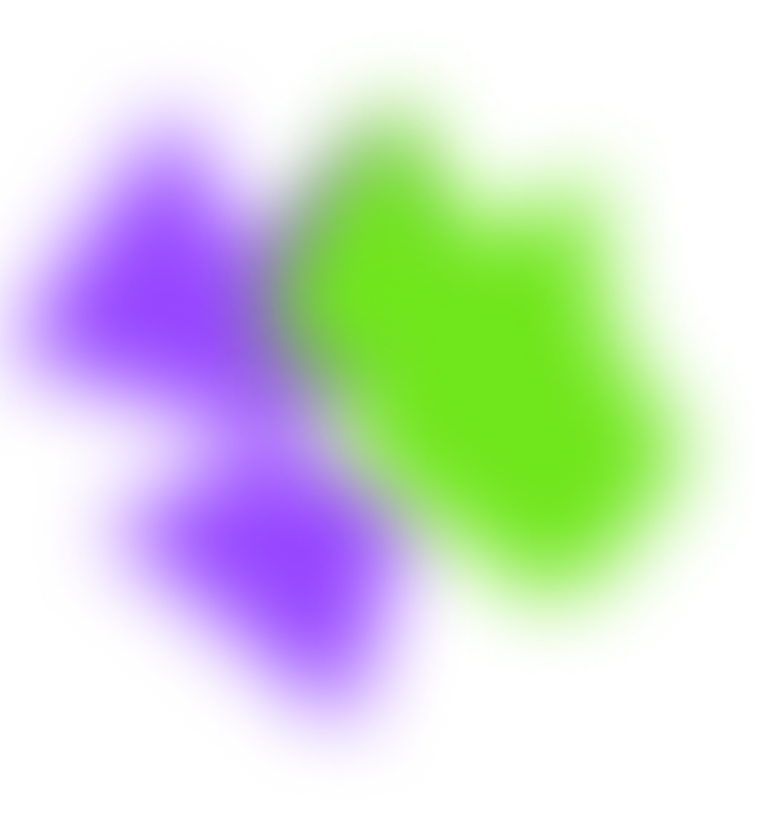
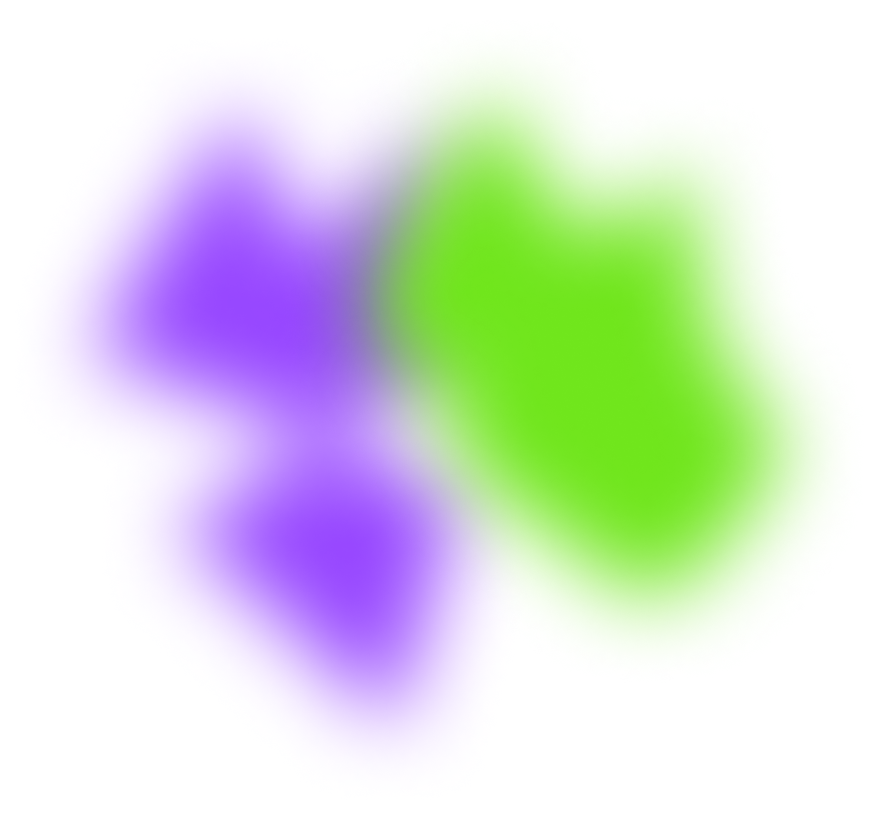
Added 1700px media query

Changed region(s): [[0.0, 0.0915, 0.7132, 0.8232], [0.7132, 0.2439, 0.8992, 0.7012]]

diff --git a/src/app/app.component.html b/src/app/app.component.html
@@ -1,15 +1,18 @@
-<div class="start-page">
-    <app-header [dataFromApp]="boolToHeader" (dataEvent)="receiveDataFromHeader($event)"></app-header>
-    <app-front-page></app-front-page>
-    <app-links></app-links>
-    <div class="scroll-down-container"><span>Scroll down</span><img src="./assets/img/arrow-down.png" alt=""></div>
+<div class="margin-l-r-400">
+    <div class="start-page">
+        <app-header [dataFromApp]="boolToHeader" (dataEvent)="receiveDataFromHeader($event)"></app-header>
+        <app-front-page></app-front-page>
+        <app-links></app-links>
+        <div class="scroll-down-container"><span>Scroll down</span><img src="./assets/img/arrow-down.png" alt=""></div>
+    </div>
+    <div>
+        <app-about-me></app-about-me>
+        <app-my-skills></app-my-skills>
+        <app-portfolio></app-portfolio>
+        <app-project></app-project>
+        <app-contact></app-contact>
+        <app-footer></app-footer>
+    </div>
+    <app-mobile-menu (menuClosed)="receiveDataFromMobileMenu($event)" [class.hide]="!showMenu"
+        class="mobile-menu"></app-mobile-menu>
 </div>
-<div>
-    <app-about-me></app-about-me>
-    <app-my-skills></app-my-skills>
-    <app-portfolio></app-portfolio>
-    <app-project></app-project>
-    <app-contact></app-contact>
-    <app-footer></app-footer>
-</div>
-<app-mobile-menu (menuClosed)="receiveDataFromMobileMenu($event)" [class.hide]="!showMenu" class="mobile-menu"></app-mobile-menu>

diff --git a/src/app/project/project.component.html b/src/app/project/project.component.html
@@ -10,8 +10,8 @@
                 users and categories</div>
             <div></div>
             <div class="button-container">
-                <button class="live-test" mat-raised-button>Live test</button>
-                <button class="github" mat-stroked-button>Github</button>
+                <a href="https://alexander-gerzen.developerakademie.net/Join/login.html" target="_blank"><button class="live-test" mat-raised-button>Live test</button></a>
+                <a href="https://github.com/AlexGerzen/Join" target="_blank"><button class="github" mat-stroked-button>Github</button></a>
             </div>
         </div>
     </div>
@@ -25,8 +25,8 @@
                 coins and salsa bottles to defeat the giant chicken</div>
             <div></div>
             <div class="button-container text-end">
-                <button class="live-test" mat-raised-button>Live test</button>
-                <button class="github" mat-stroked-button>Github</button>
+                <a href="https://alexander-gerzen.developerakademie.net/ElPolloLoco/index.html" target="_blank"><button class="live-test" mat-raised-button>Live test</button></a>
+                <a href="https://github.com/AlexGerzen/ElPolloLoco" target="_blank"><button class="github" mat-stroked-button>Github</button></a>
             </div>
         </div>
     </div>

diff --git a/src/app/front-page/front-page.component.scss b/src/app/front-page/front-page.component.scss
@@ -31,7 +31,7 @@
 .shadow {
     position: absolute;
     top: 0;
-    left: 0;
+    left: 85px;
     z-index: 1 !important;
 }
 
@@ -95,6 +95,10 @@
 @media (max-width: 1341px) {
     .front-page-container {
         clip-path: ellipse(74% 51% at 36% 37%);
+    }
+
+    .shadow {
+        left: 0;
     }
 
     .profile-picture {
@@ -226,5 +230,44 @@
 @media screen and (min-width: 620px) and (max-width: 960px) {
     .front-page-container {
         height: auto;
+    }
+}
+
+@media (min-width:1700px) {
+    .profile-picture-container {
+        img {
+            width: 650px;
+        }
+    }
+
+    .shadow {
+        left: 200px;
+    }
+
+    .profile-picture {
+        margin-left: 239px;
+    }
+
+    .headline-button-container {
+        margin-right: 300px;
+    }
+
+
+    
+}
+
+@media (min-width:1770px) {
+    .alexander-gerzen {
+        width: 500px;
+        font-size: 62px;
+    }
+
+    .frontend-developer {
+        width: 500px;
+        font-size: 45px;
+    }
+
+    .i-am {
+        font-size: 50px;
     }
 }

diff --git a/src/app/footer/footer.component.html b/src/app/footer/footer.component.html
@@ -7,9 +7,12 @@
         </div>
         <div class="copyright">© Alexander Gerzen 2023</div>
         <div class="links">
-            <img src="./assets/img/logos/github-button.png" alt="">
-            <img src="./assets/img/logos/email-button.png" alt="">
-            <img src="./assets/img/logos/linkedIn-button.png" alt="">
+            <a href="https://github.com/AlexGerzen" target="_blank"><img src="./assets/img/logos/github-button.png"
+                    alt=""></a>
+            <a href="#contactContainer"><img class="mobile-margin-l-60" src="./assets/img/logos/email-button.png"
+                    alt=""></a>
+            <a href="https://www.linkedin.com/in/alexander-gerzen-641797296" target="_blank"><img
+                    class="mobile-margin-l-60" src="./assets/img/logos/linkedIn-button.png" alt=""></a>
         </div>
         <div class="impressum hide">Impressum</div>
     </div>

diff --git a/src/app/links/links.component.html b/src/app/links/links.component.html
@@ -1,7 +1,7 @@
 <div class="links-container">
     <span class="purple-line"></span>
-    <img src="./assets/img/logos/github-button.png" alt="">
-    <img class="mobile-margin-l-60" src="./assets/img/logos/email-button.png" alt="">
-    <img class="mobile-margin-l-60" src="./assets/img/logos/linkedIn-button.png" alt="">
+    <a href="https://github.com/AlexGerzen" target="_blank"><img src="./assets/img/logos/github-button.png" alt=""></a>
+    <a href="#contactContainer"><img class="mobile-margin-l-60" src="./assets/img/logos/email-button.png" alt=""></a>
+    <a href="https://www.linkedin.com/in/alexander-gerzen-641797296" target="_blank"><img  class="mobile-margin-l-60" src="./assets/img/logos/linkedIn-button.png" alt=""></a>
     <a href="#contactContainer"><span class="email">a.gerzen@yahoo.de</span></a>
 </div>

diff --git a/src/app/my-skills/my-skills.component.scss b/src/app/my-skills/my-skills.component.scss
@@ -58,7 +58,7 @@
 
     span {
         font-weight: 700;
-        font-size: 60px;
+        font-size: 62px;
     }
 
     button {
@@ -223,6 +223,27 @@
     .right-container {
         span {
             font-size: 36px;
+        }
+    }
+}
+
+@media (min-width: 1700px) {
+    .my-skills-container {
+        margin-left: 300px;
+        width: calc(100% - 300px);
+    }
+
+    .purple-line {
+        width: 200px;
+    }
+
+    .my-skills-text {
+        margin-right: 300px;
+    }
+
+    .right-container {
+        button {
+            margin-right: 350px;
         }
     }
 }

diff --git a/src/app/about-me/about-me.component.scss b/src/app/about-me/about-me.component.scss
@@ -23,7 +23,7 @@
     gap: 40px;
 
     span {
-        font-size: 54px;
+        font-size: 62px;
         font-weight: 700;
     }
 
@@ -113,5 +113,12 @@
         span {
             font-size: 36px;
         }
+    }
+}
+
+@media (min-width: 1700px) {
+    .about-me-container {
+        margin-left: 300px;
+        width: calc(100% - 300px);
     }
 }

diff --git a/src/app/links/links.component.scss b/src/app/links/links.component.scss
@@ -19,7 +19,7 @@ a {
 }
 
 .purple-line {
-    width: 100px;
+    width: 250px;
     height: 1px;
     border: 3px solid #9747FF;
     border-top-right-radius: 10px;
@@ -70,5 +70,11 @@ a {
 @media (max-width:620px) {
     .purple-line {
         display: none;
+    }
+}
+
+@media (min-width: 1700px) {
+    .purple-line {
+        width: 300px;
     }
 }

diff --git a/src/app/contact/contact.component.scss b/src/app/contact/contact.component.scss
@@ -240,3 +240,22 @@
         right: 10px;
     }
 }
+
+@media (min-width:1700px) {
+    .purple-line {
+        width: 150px;
+    }
+
+    .head {
+        gap: 150px;
+    }
+
+    .info-container {
+        margin-left: 300px;
+        margin-right: 300px;
+    }
+
+    .scroll-up {
+        right: 300px;
+    }
+}

diff --git a/src/app/app.component.scss b/src/app/app.component.scss
@@ -66,6 +66,12 @@
     }
 }
 
+@media (min-width: 1700px) {
+    .scroll-down-container {
+        right: 257px;
+    }
+}
+
 @media screen and (min-width: 960px) and (max-height: 600px) {
     .scroll-down-container {
         display: none;

diff --git a/src/app/project/project.component.scss b/src/app/project/project.component.scss
@@ -187,3 +187,11 @@
         margin-right: 0 !important;
     }
 }
+
+@media (min-width: 1700px) {
+    .project-container {
+        margin-left: 300px;
+        margin-right: 300px;
+        width: calc(100% - 600px);
+    }
+}

diff --git a/src/app/footer/footer.component.scss b/src/app/footer/footer.component.scss
@@ -120,3 +120,11 @@ a {
         font-size: 20px;
     }
 }
+
+@media (min-width:1700px) {
+    .footer-container {
+        margin-right: 300px;
+        margin-left: 300px;
+        width: calc(100% - 600px);
+    }
+}
